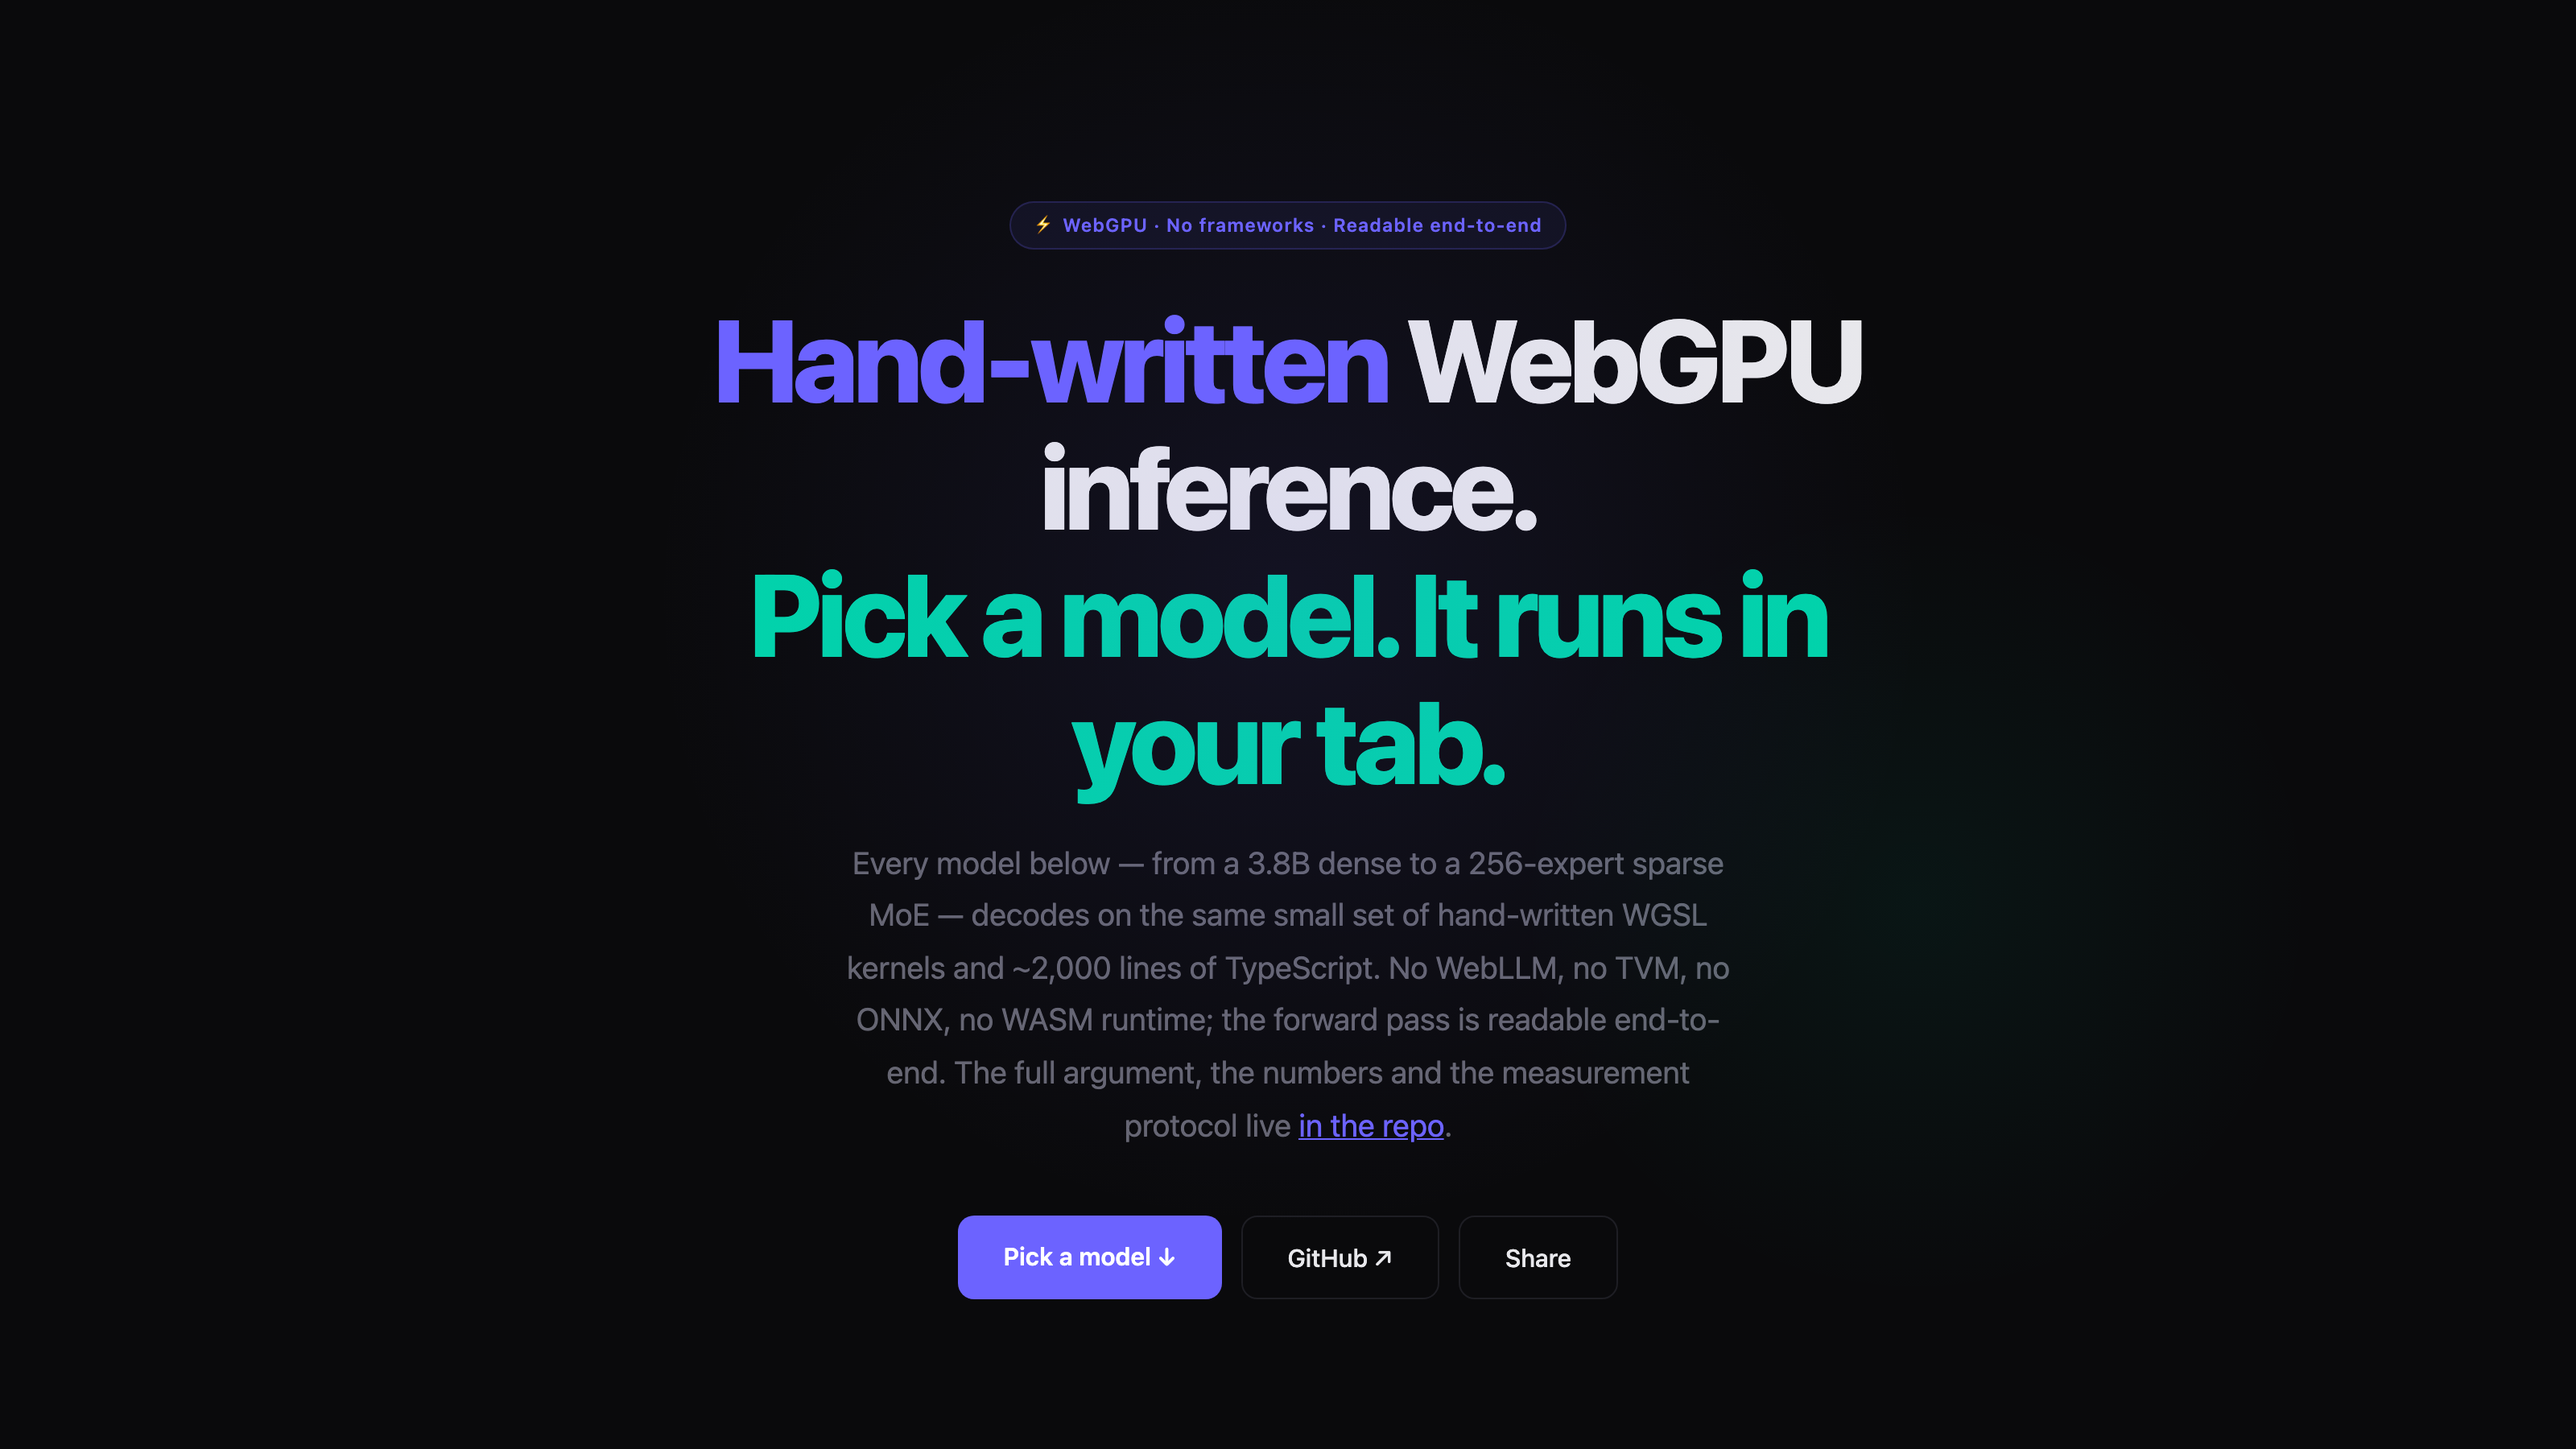
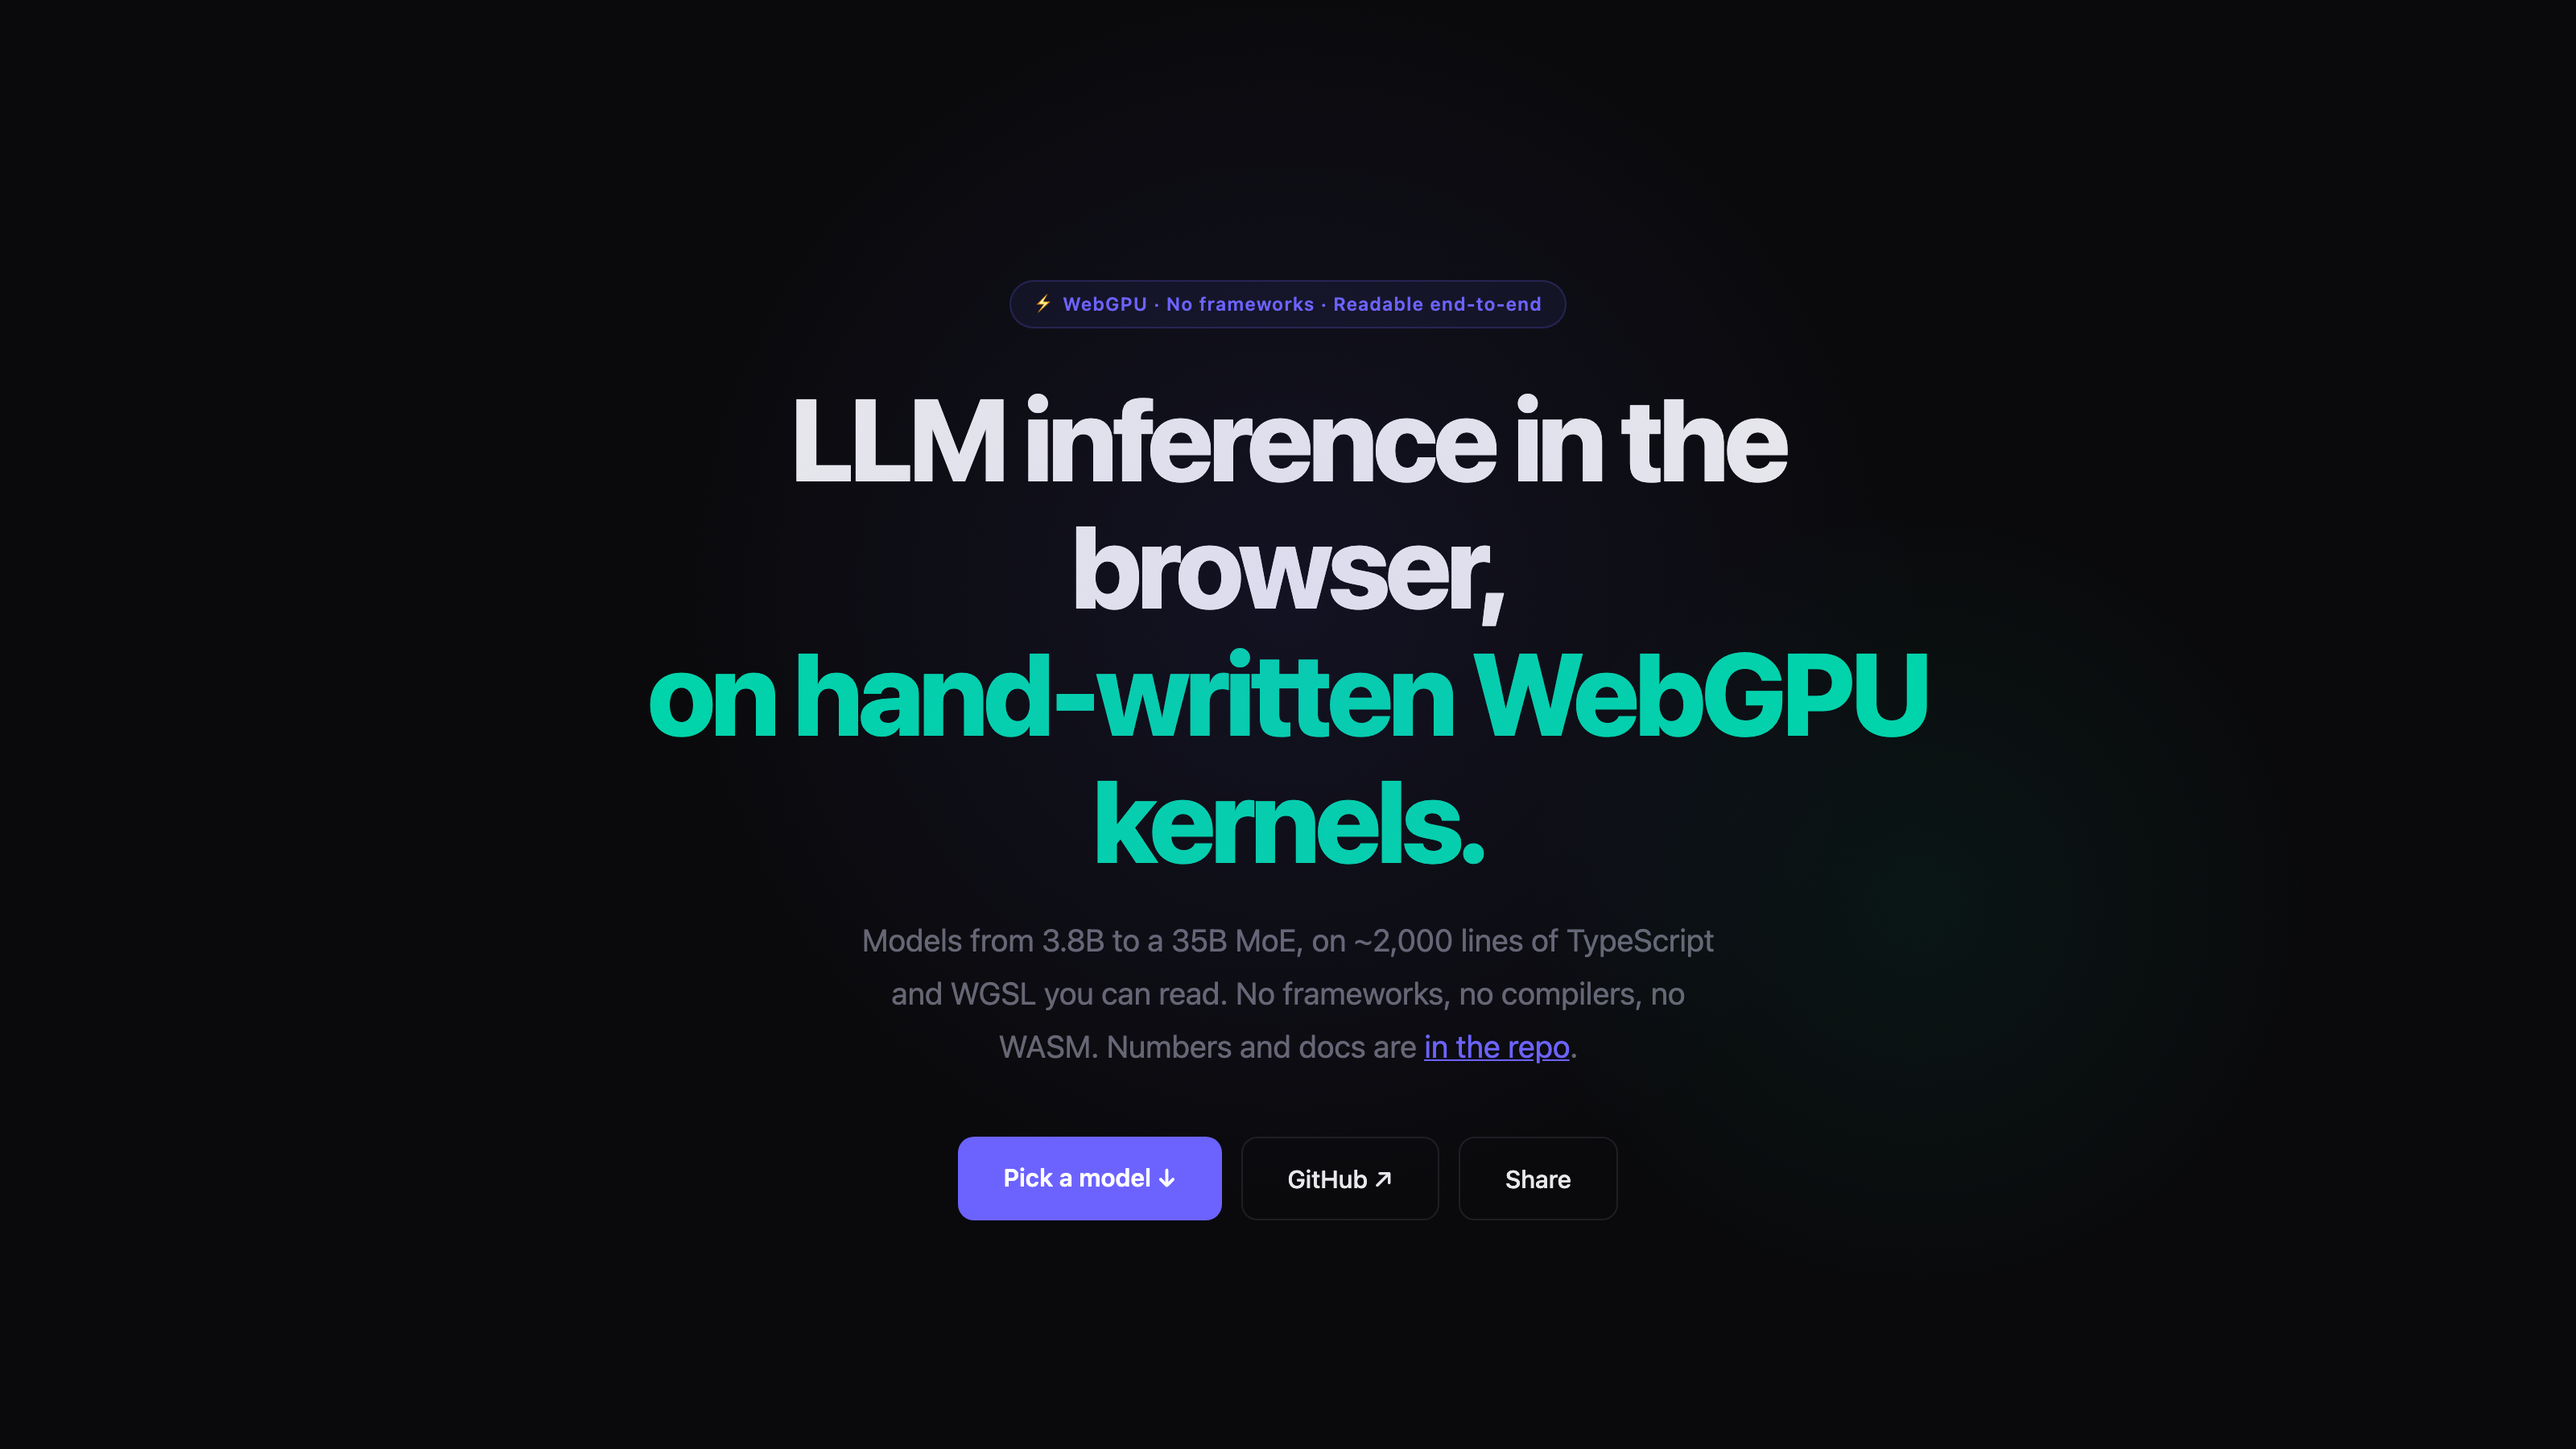
landing: say what it is, plainly
'Pick a model. It runs in your tab.' was ad copy. The project is hand-written
WebGPU kernels doing LLM inference in the browser — the headline now just says
that, the way llama.cpp's says 'LLM inference in C/C++'. Images regenerated.

Changed region(s): [[0.25, 0.1244, 0.75, 0.9022]]

diff --git a/index.html b/index.html
@@ -742,15 +742,13 @@
   <div class="hero-badge">⚡ WebGPU · No frameworks · Readable end-to-end</div>
 
   <h1>
-    <span class="accent">Hand-written</span> WebGPU inference.<br>
-    <span class="green">Pick a model. It runs in your tab.</span>
+    LLM inference in the browser,<br>
+    <span class="green">on hand-written WebGPU kernels.</span>
   </h1>
 
   <p class="hero-sub">
-    Every model below — from a 3.8B dense to a 256-expert sparse MoE — decodes on the
-    same small set of hand-written WGSL kernels and ~2,000 lines of TypeScript.
-    No WebLLM, no TVM, no ONNX, no WASM runtime; the forward pass is readable end-to-end.
-    The full argument, the numbers and the measurement protocol live
+    Models from 3.8B to a 35B MoE, on ~2,000 lines of TypeScript and WGSL you can read.
+    No frameworks, no compilers, no WASM. Numbers and docs are
     <a href="https://github.com/abgnydn/zero-tvm" style="color:var(--accent);">in the repo</a>.
   </p>
 
